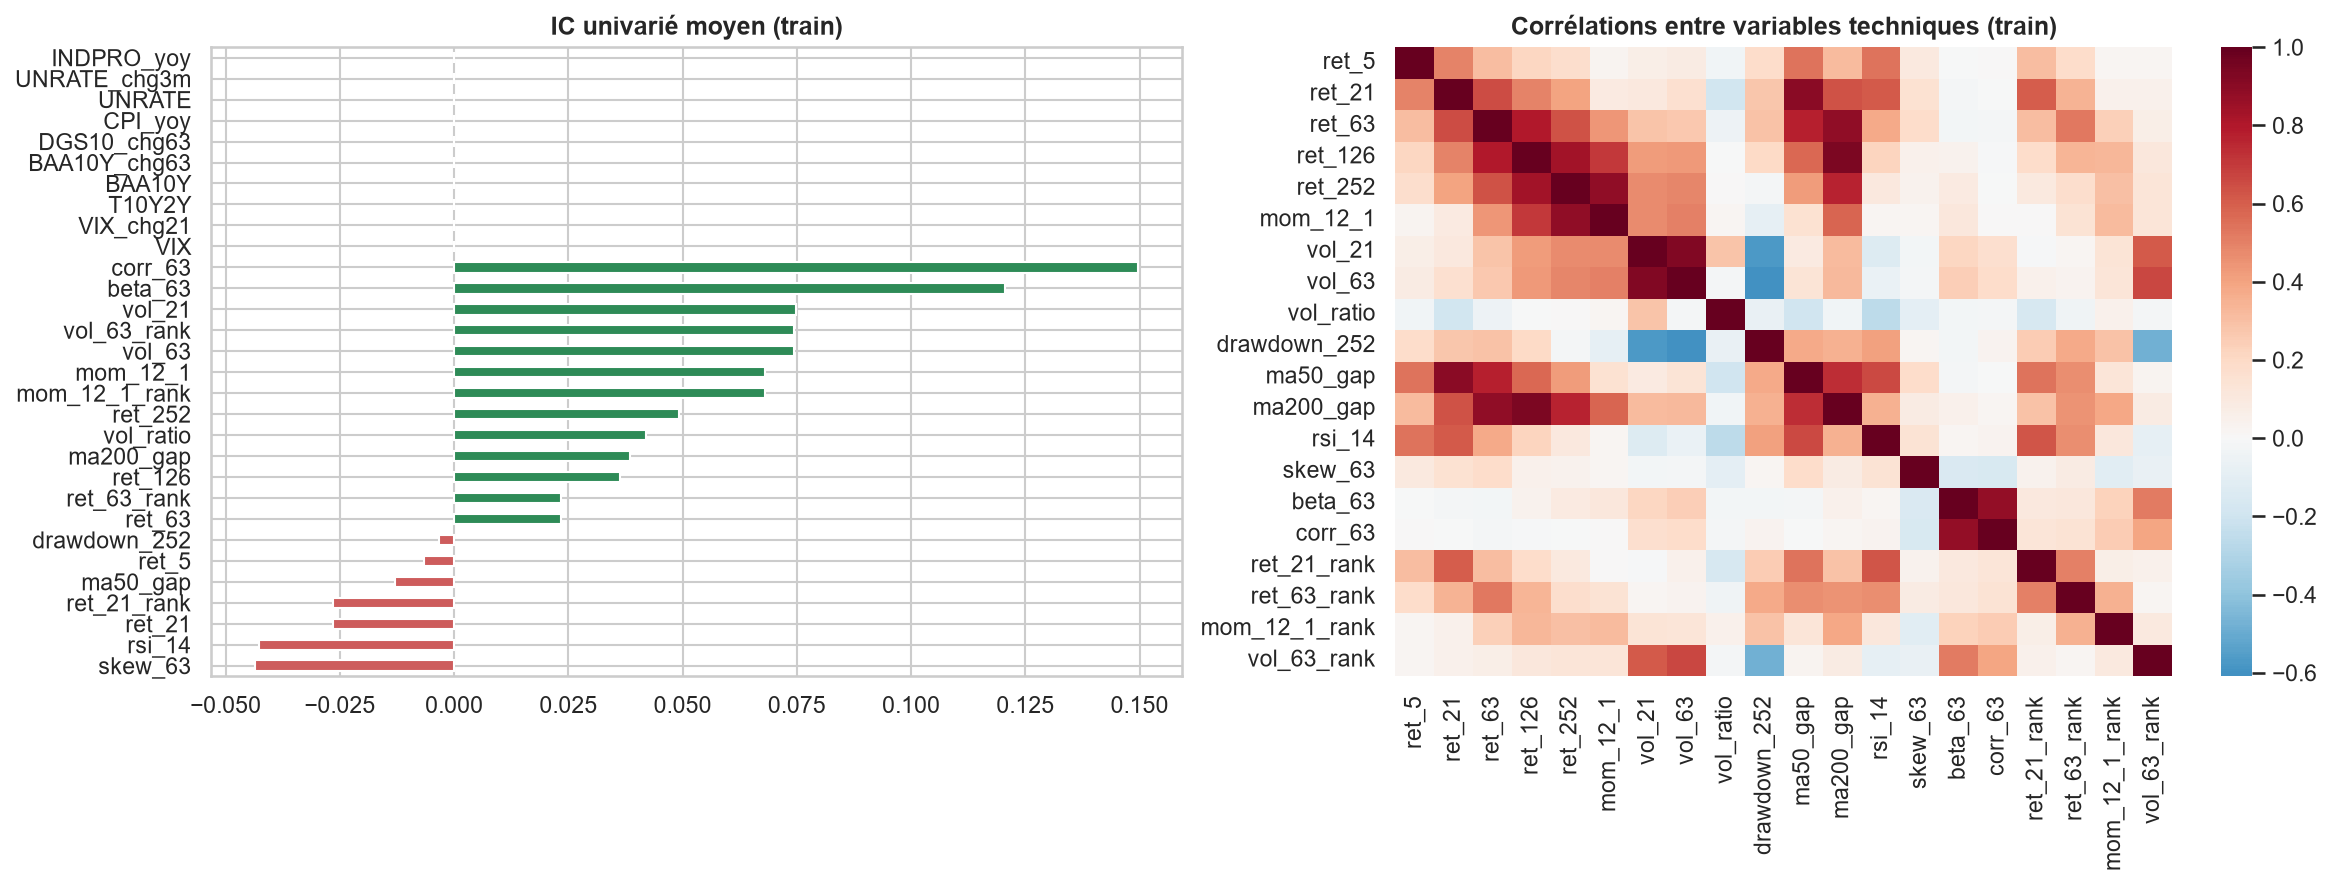
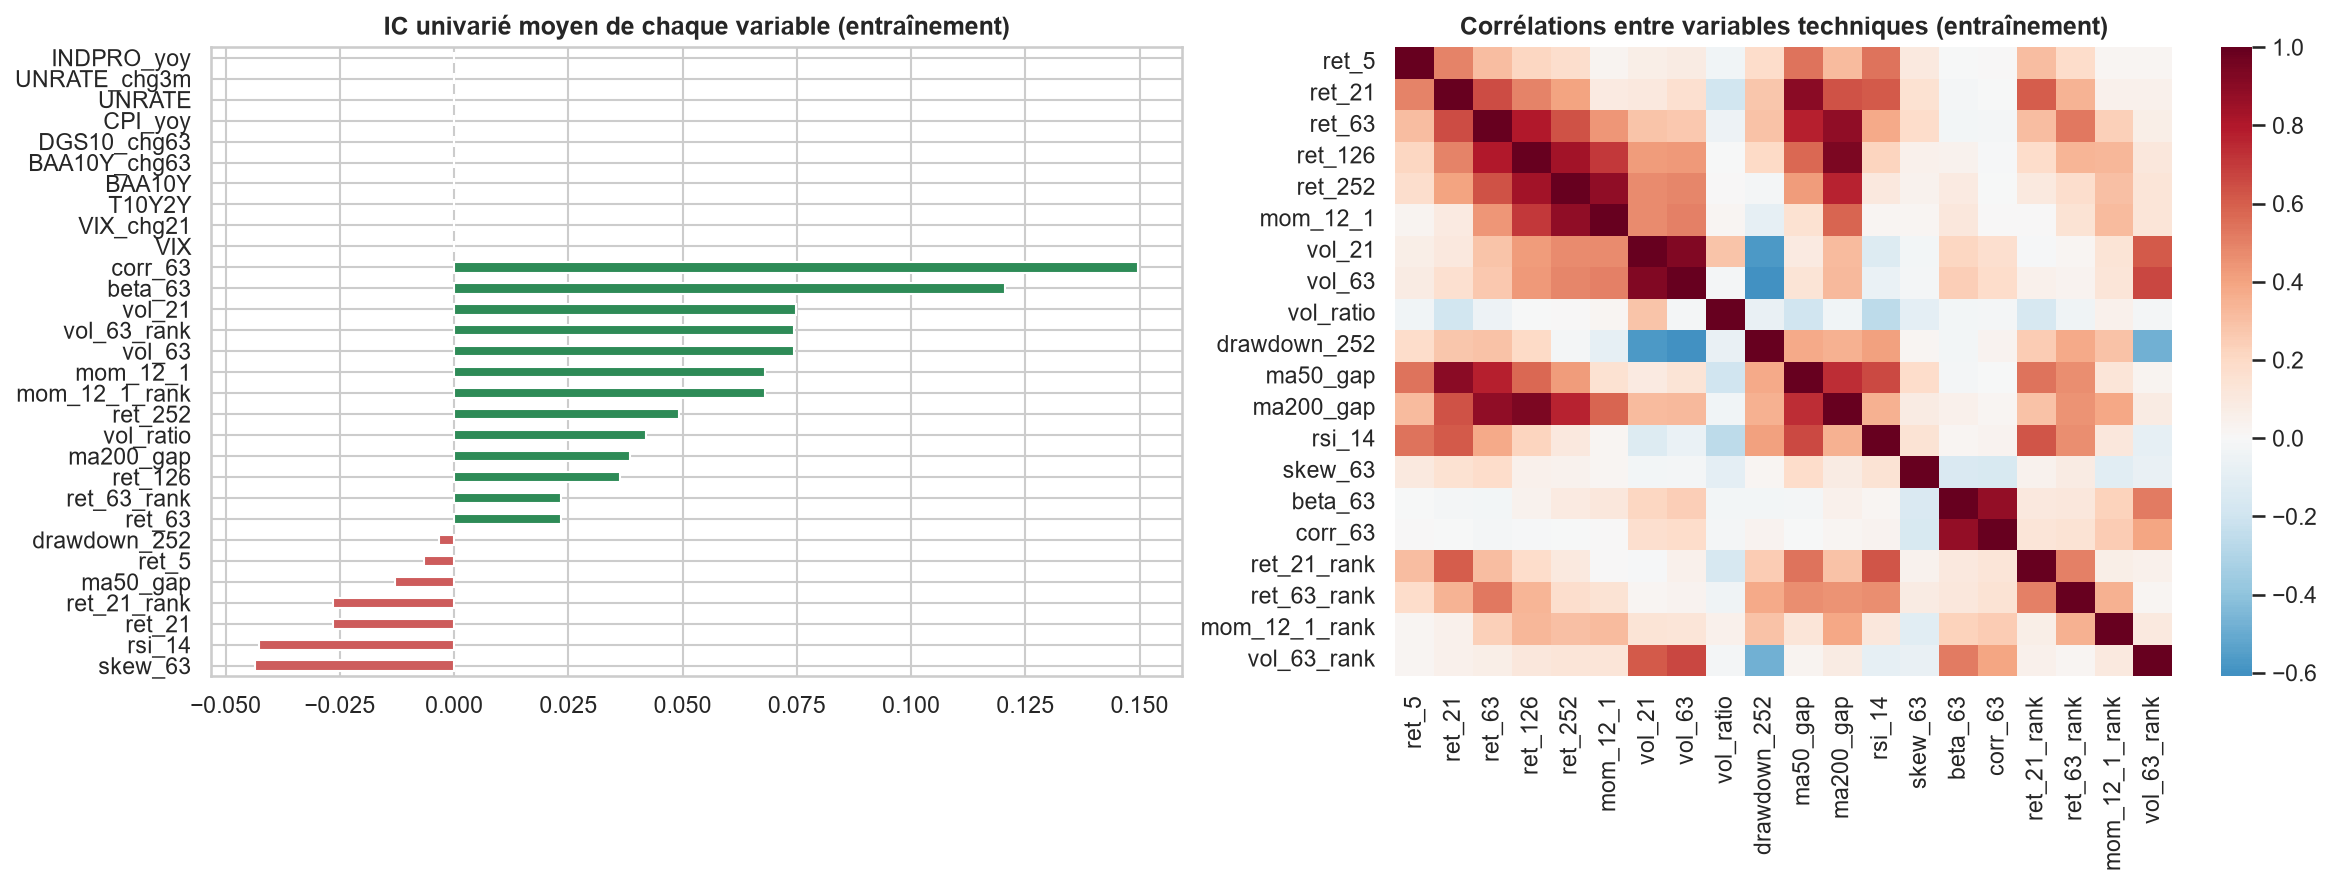
Notebook v4 : section 4a agent Prevision (formulation, fenetre glissante, decoupage purge, IC univaries, ACP KMO/Bartlett/eboulis/cercle) ; option --sauf

Changed region(s): [[0.6175, 0.0, 0.8954, 0.0609], [0.1852, 0.0, 0.4322, 0.0609]]

diff --git a/tools/sections/s04_prevision_a.py b/tools/sections/s04_prevision_a.py
@@ -1,0 +1,143 @@
+from cellules import code, md
+
+CELLS = [
+md(r"""
+## 4. Agent Prévision – apprentissage supervisé sur données temporelles
+
+### 4.1 Formulation (cours 2, « cas des données temporelles »)
+Pour chaque actif *i* et chaque date *t*, on prédit son **rendement excédentaire futur** sur un mois :
+
+$$y_{i,t} = r_{i,\,t\to t+H} \;-\; \frac{1}{N_t}\sum_{j} r_{j,\,t\to t+H}$$
+
+C'est une **régression**. On retire la moyenne de tous les actifs à la même date : l'effet « marché » commun disparaît et seul compte le **classement relatif**, l'information utile pour choisir *entre* les actifs.
+
+Les données sont préparées par **fenêtre glissante** (cours 2) : à chaque date, les variables résument le passé observé (*lookback*), et la cible porte sur l'horizon futur (*forecast horizon*).
+"""),
+code(r"""
+from sklearn.model_selection import RandomizedSearchCV
+from src.features import (compute_asset_features, compute_market_features, sample_dates, temporal_split,
+                          ASSET_NUM_FEATURES, MACRO_FEATURES, CAT_FEATURES, REGIME_FEATURES)
+from src.temporal import (window_table, TemporalCV, describe_splits, regression_metrics, information_coefficient,
+                          newey_west_tstat, quintile_spread, forecast_report, evaluate_three_ways,
+                          loss_by_date, diebold_mariano, dm_table, H_STEPS)
+from src.pca_analysis import kmo, bartlett_sphericity, ACP
+
+panel = compute_asset_features(prices, macro)
+FEATS = ASSET_NUM_FEATURES + [c for c in MACRO_FEATURES if c in panel.columns] + CAT_FEATURES
+NUM_F = [c for c in FEATS if c not in CAT_FEATURES]
+panel.to_csv(DATA_PROC / "panel_features.csv.gz", compression="gzip")
+print("Panel (date × actif) :", panel.shape)
+window_table(lookback=252, horizon=HORIZON, stride=SAMPLE_EVERY, input_size=len(FEATS))
+"""),
+md(r"""
+**Variables d'entrée** (toutes calculées avec l'information disponible en *t*) :
+
+| Famille | Variables |
+|---|---|
+| Momentum | rendements passés à 5 j, 1, 3, 6 et 12 mois ; momentum 12-1 (12 mois sauf le dernier) |
+| Risque | volatilités à 1 et 3 mois, leur rapport, drawdown sur 1 an, asymétrie |
+| Tendance | écarts aux moyennes mobiles 50 et 200 jours, RSI |
+| Lien au marché | bêta et corrélation au S&P 500 sur 3 mois |
+| Position relative | rangs transversaux du momentum et de la volatilité |
+| Macro (FRED, décalée) | VIX et sa variation, pente de courbe, spread de crédit et sa variation, variation du taux 10 ans, inflation, chômage, production industrielle |
+| Catégorielle | classe d'actifs (one-hot) |
+
+**Choix du stride S = 5 jours** : avec S = 1, deux échantillons consécutifs auraient 20 jours de cible en commun (quasi-doublons) ; avec S = 21, il resterait trop peu de dates (≈ 110 en entraînement). Le chevauchement résiduel (4 échantillons) est corrigé dans les statistiques de test (Newey-West, Diebold-Mariano).
+
+### 4.2 Découpage temporel purgé (avant tout prétraitement)
+- **Entraînement** : 2011 → 2019 | **Validation** : 2020-2021 (choc COVID) | **Test** : 2022 → fin (inflation, hausse des taux).
+- **Purge / embargo de 35 jours** avant chaque frontière : la cible d'une observation du 20 décembre 2019 dépend des prix de janvier 2020 (validation). Elle est supprimée, sinon le modèle apprendrait sur des rendements de la validation.
+- Aucun mélange aléatoire : on ne prédit jamais le passé avec le futur.
+"""),
+code(r"""
+panel_s = sample_dates(panel).dropna(subset=["target_reg"])
+tr, va, te = temporal_split(panel_s)
+for nm, d in (("entraînement", tr), ("validation", va), ("test", te)):
+    dd = d.index.get_level_values("date")
+    print(f"{nm:<13}: {dd.min().date()} → {dd.max().date()} | {len(d):>6} obs | {dd.nunique():>4} dates")
+gap = va.index.get_level_values("date").min() - tr.index.get_level_values("date").max()
+assert gap.days >= EMBARGO_DAYS
+print(f"Écart entraînement → validation : {gap.days} jours (≥ embargo de {EMBARGO_DAYS} jours)")
+d_tr = tr.index.get_level_values("date")
+print(f"Écart-type de la cible (entraînement) : {tr['target_reg'].std():.4f} soit ±{tr['target_reg'].std():.1%} par mois")
+"""),
+md(r"""
+### 4.3 Analyse exploratoire du pouvoir prédictif (entraînement)
+Le **coefficient d'information (IC)** d'une variable est la corrélation de rang (Spearman) entre cette variable et le rendement futur, calculée date par date puis moyennée. En gestion d'actifs, un IC de 0,03 à 0,05 **stable** est déjà considéré comme exploitable.
+"""),
+code(r"""
+ic_uni = pd.Series({f: information_coefficient(tr[f], tr["fwd_ret"]).mean() for f in NUM_F}).sort_values()
+fig, axes = plt.subplots(1, 2, figsize=(16, 6))
+ic_uni.plot.barh(ax=axes[0], color=np.where(ic_uni > 0, "seagreen", "indianred"))
+axes[0].set_title("IC univarié moyen de chaque variable (entraînement)")
+sns.heatmap(tr[ASSET_NUM_FEATURES].corr(), cmap="RdBu_r", center=0, ax=axes[1])
+axes[1].set_title("Corrélations entre variables techniques (entraînement)")
+plt.tight_layout()
+savefig("10_prevision_ic_univarie")
+plt.show()
+print("IC univariés les plus forts (en valeur absolue) :")
+print(ic_uni.reindex(ic_uni.abs().sort_values(ascending=False).index).head(6).round(3).to_string())
+print(f"Médiane des |IC| : {ic_uni.abs().median():.3f}")
+"""),
+md(r"""
+**Lecture** : la plupart des IC univariés sont faibles (médiane de |IC| ≈ 0,04), ce qui est **normal en finance**, les marchés étant proches de l'efficience. Les variables les plus « prédictives » (corrélation et bêta au S&P 500, volatilité, toutes de signe positif) repèrent en réalité **les actions par opposition aux obligations** : sur 2011-2019, marché haussier, les actifs risqués ont nettement battu les actifs défensifs. Il s'agit d'une **prime de classe d'actifs propre à la période d'entraînement**, pas d'un signal de sélection garanti : si le contexte change (2022 : actions et obligations baissent ensemble), ce signal peut disparaître. C'est un risque de **dérive des données** (*data drift*, cours 1). Les variables techniques sont par ailleurs **fortement corrélées entre elles** (différents horizons de momentum, différentes mesures de volatilité). D'où deux conséquences : il faudra des modèles **régularisés**, et une **réduction de dimension** est envisageable.
+
+### 4.4 Réduction de dimension : Analyse en Composantes Principales (cours 2)
+L'ACP remplace des variables corrélées par de nouvelles variables **non corrélées**, les composantes principales $F_k = X V_k$, où les $V_k$ sont les vecteurs propres de la matrice de variance-covariance $S = \frac{1}{n-1}X^tX$ des variables standardisées, rangés par valeur propre $\lambda_k$ décroissante. La part de variance expliquée par $F_k$ vaut $\lambda_k / \sum_j \lambda_j$.
+
+**Vérification préalable** (N.B. du cours) : l'ACP n'a d'intérêt que si les variables sont corrélées → indice **KMO ≥ 0,6** et **test de sphéricité de Bartlett** significatif. Tout est calculé sur l'entraînement.
+"""),
+code(r"""
+X_acp = tr[ASSET_NUM_FEATURES].dropna()
+X_acp = X_acp.clip(X_acp.quantile(0.005), X_acp.quantile(0.995), axis=1)
+kmo_global, kmo_var = kmo(X_acp)
+bart = bartlett_sphericity(X_acp)
+print(f"KMO global = {kmo_global:.3f}  (≥ 0,6 : ACP justifiée)")
+print(f"Bartlett : χ² = {bart['chi2']:,.0f}, ddl = {bart['ddl']}, p-valeur = {bart['p-valeur']:.2g}")
+acp = ACP().fit(X_acp)
+var_tab = acp.variance_table()
+crit = acp.n_components()
+display(var_tab.head(10))
+print("Nombre de facteurs selon chaque critère :", crit)
+"""),
+code(r"""
+fig, axes = plt.subplots(1, 2, figsize=(15, 6))
+lam = var_tab["valeur propre"]
+axes[0].bar(range(1, len(lam) + 1), lam, color="steelblue")
+axes[0].plot(range(1, len(lam) + 1), var_tab["% cumulé"] / 100 * lam.max(), "o-", color="darkorange",
+             label="% de variance cumulé (échelle de droite)")
+axes[0].axhline(1, color="r", ls="--", label="Critère de Kaiser (λ = 1)")
+axes[0].set_xlabel("Composante")
+axes[0].set_ylabel("Valeur propre")
+axes[0].set_title("Éboulis des valeurs propres")
+axes[0].legend()
+
+C = acp.correlations(2)
+axes[1].add_patch(plt.Circle((0, 0), 1, fill=False, color="grey"))
+for var, (a, b) in C.iterrows():
+    axes[1].arrow(0, 0, a, b, head_width=0.02, color="slateblue", alpha=.8)
+    axes[1].text(a * 1.08, b * 1.08, var, fontsize=8, ha="center")
+axes[1].axhline(0, color="k", lw=.5)
+axes[1].axvline(0, color="k", lw=.5)
+axes[1].set_xlim(-1.1, 1.1)
+axes[1].set_ylim(-1.1, 1.1)
+axes[1].set_aspect("equal")
+axes[1].set_xlabel(f"F1 ({var_tab.iloc[0, 1]:.0f} %)")
+axes[1].set_ylabel(f"F2 ({var_tab.iloc[1, 1]:.0f} %)")
+axes[1].set_title("Cercle des corrélations")
+plt.tight_layout()
+savefig("10b_acp")
+plt.show()
+display(acp.correlations(4).round(2).style.background_gradient(cmap="RdBu_r", vmin=-1, vmax=1))
+chrono("4a. Prévision : données, EDA, ACP")
+"""),
+md(r"""
+**Interprétation financière des composantes** (corrélations variables–facteurs) :
+- **F1 – « Tendance »** : corrélé à tous les rendements passés (1 à 12 mois) et aux écarts aux moyennes mobiles. Un actif à F1 élevé est en tendance haussière.
+- **F2 – « Risque »** : corrélé aux volatilités (1 et 3 mois) et à leur rang. Il oppose les actifs agités aux actifs calmes.
+- **F3 – « Retournement »** : oppose le momentum long (6-12 mois) au momentum court (1 mois) ; il capte les actifs qui corrigent après une longue hausse.
+- **F4 – « Sensibilité au marché »** : corrélé au bêta et à la corrélation au S&P 500.
+
+Les critères ne s'accordent pas sur le nombre de facteurs (Kaiser : 5 ; 80 % de variance : 6 ; 90 % : 9 ; coude : 2). On testera en 4.6 les modèles **avec et sans ACP** dans le pipeline. L'ACP y est ajustée sur l'entraînement uniquement, comme toute autre étape de préparation.
+"""),
+]

diff --git a/tools/construire_notebook.py b/tools/construire_notebook.py
@@ -32,13 +32,13 @@ def load_cells(path: Path) -> list:
     return mod.CELLS
 
 
-def build(upto: int | None = None) -> nbformat.NotebookNode:
+def build(upto: int | None = None, skip: tuple = ()) -> nbformat.NotebookNode:
     nb = nbformat.v4.new_notebook()
     nb.metadata["kernelspec"] = {"name": "python3", "display_name": "Python 3", "language": "python"}
     nb.metadata["language_info"] = {"name": "python"}
     for f in sorted(SECTIONS.glob("s[0-9][0-9]_*.py")):
         num = int(f.name[1:3])
-        if upto is not None and num > upto:
+        if (upto is not None and num > upto) or num in skip:
             continue
         nb.cells.extend(load_cells(f))
     return nb
@@ -58,11 +58,12 @@ if __name__ == "__main__":
     sys.path.insert(0, str(SECTIONS))
     ap = argparse.ArgumentParser()
     ap.add_argument("--jusqua", type=int, default=None, help="dernière section incluse")
+    ap.add_argument("--sauf", type=int, nargs="*", default=[], help="sections à exclure (mise au point)")
     ap.add_argument("--executer", action="store_true")
     ap.add_argument("--sortie", type=str, default=str(OUT))
     a = ap.parse_args()
     out = Path(a.sortie)
-    nb = build(a.jusqua)
+    nb = build(a.jusqua, tuple(a.sauf))
     nbformat.write(nb, out)
     print(f"{len(nb.cells)} cellules écrites dans {out}")
     if a.executer:
